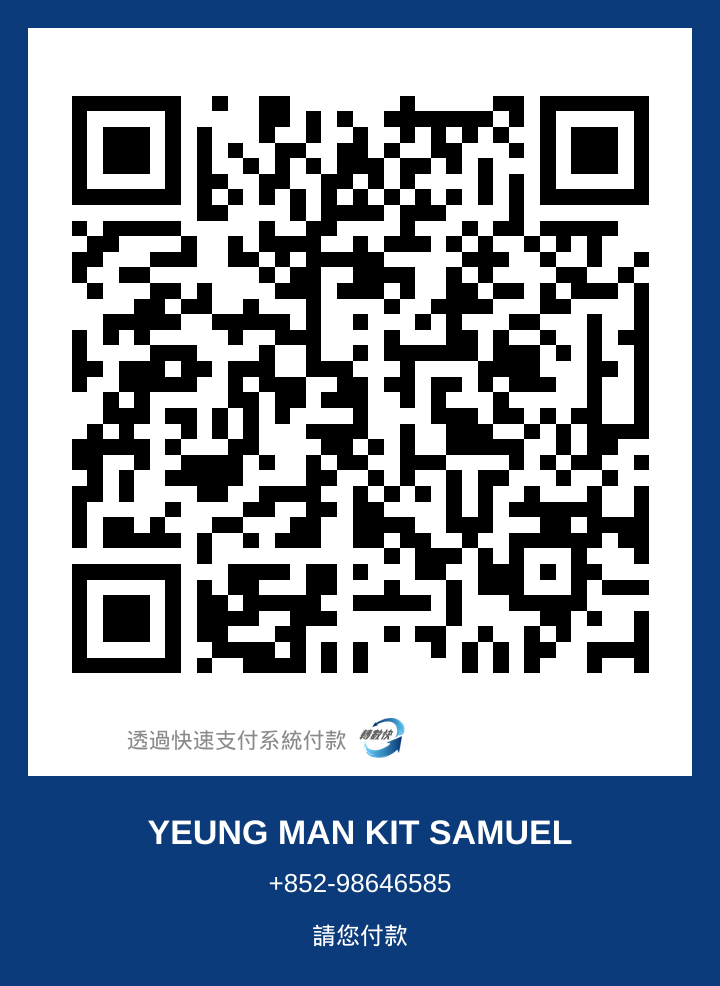
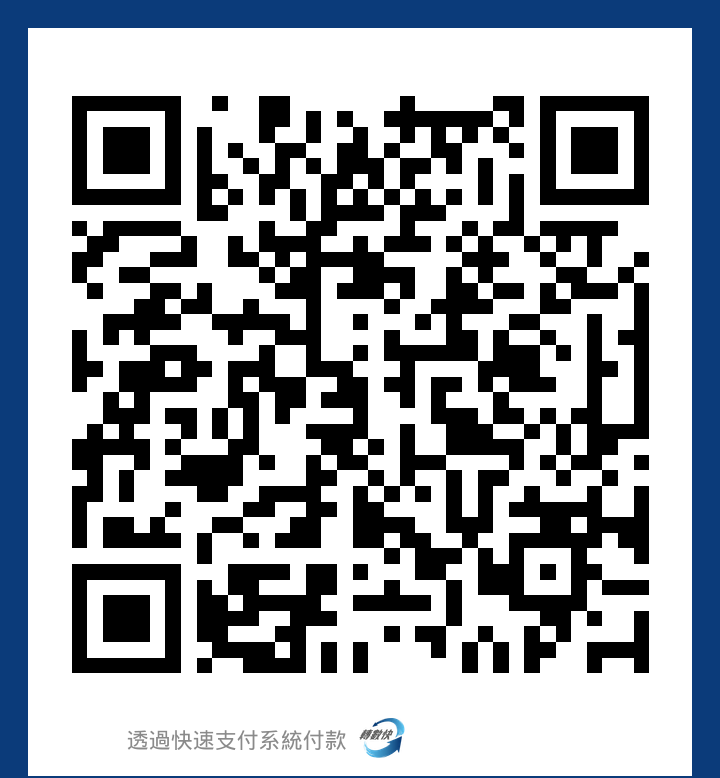
Show full FPS QR branding strip in checkout expand panel
Pre-crop the bank QR asset to keep 透過快速支付系統付款 and the
轉數快 logo while removing the personal blue footer, and render the
full white card on a dark FPS-blue panel instead of a square crop.

diff --git a/src/components/checkout/PaymentMethods.tsx b/src/components/checkout/PaymentMethods.tsx
@@ -213,25 +213,18 @@ function FpsBankMenu({
           </button>
 
           {qrOpen ? (
-            <div className="border-t border-[color:var(--line)] bg-white px-4 py-4">
-              {/* Fixed 1:1 frame + overflow:hidden crops the blue footer text
-                  (YEUNG MAN KIT SAMUEL / phone / 請您付款). Only the square QR shows. */}
-              <div
-                className="mx-auto w-52 overflow-hidden bg-white"
-                style={{ aspectRatio: "1 / 1" }}
-              >
-                {/* eslint-disable-next-line @next/next/no-img-element -- FPS bank QR screenshot with CSS crop */}
+            <div className="border-t border-[color:var(--line)] bg-[#0B3A7A] px-4 py-4">
+              {/* Full white-card QR (branding strip kept): 透過快速支付系統付款 + 轉數快 logo.
+                  Blue personal footer was pre-cropped from the asset. Dark panel matches the
+                  FPS frame so the white card reads clearly without invert filters. */}
+              <div className="mx-auto w-[13.5rem] overflow-hidden rounded-xl bg-white p-1.5 shadow-lg">
+                {/* eslint-disable-next-line @next/next/no-img-element -- shop FPS QR asset */}
                 <img
-                  src={`${FPS_QR_SRC}?v=20260803c`}
+                  src={`${FPS_QR_SRC}?v=20260803d`}
                   alt="轉數快 QR Code"
                   width={720}
-                  height={986}
-                  className="block w-full max-w-none"
-                  style={{
-                    height: "auto",
-                    objectFit: "cover",
-                    objectPosition: "top",
-                  }}
+                  height={778}
+                  className="block h-auto w-full object-contain"
                 />
               </div>
             </div>

diff --git a/src/lib/fps.ts b/src/lib/fps.ts
@@ -14,9 +14,9 @@ export const FPS_ID = (
 ).replace(/\D/g, "");
 
 /**
- * Public path for the FPS QR screenshot.
- * Hardcoded so stale Vercel env (e.g. old /fps-qr.svg brown placeholder)
- * cannot override the new blue-border asset. CSS crops the payee footer.
+ * Public path for the FPS QR screenshot (white card + 透過快速支付系統付款 +
+ * 轉數快 logo; personal blue footer pre-cropped out of the asset).
+ * Hardcoded so stale Vercel env cannot override with the old brown placeholder.
  */
 export const FPS_QR_SRC = "/images/fps-qr-code.png";
 
